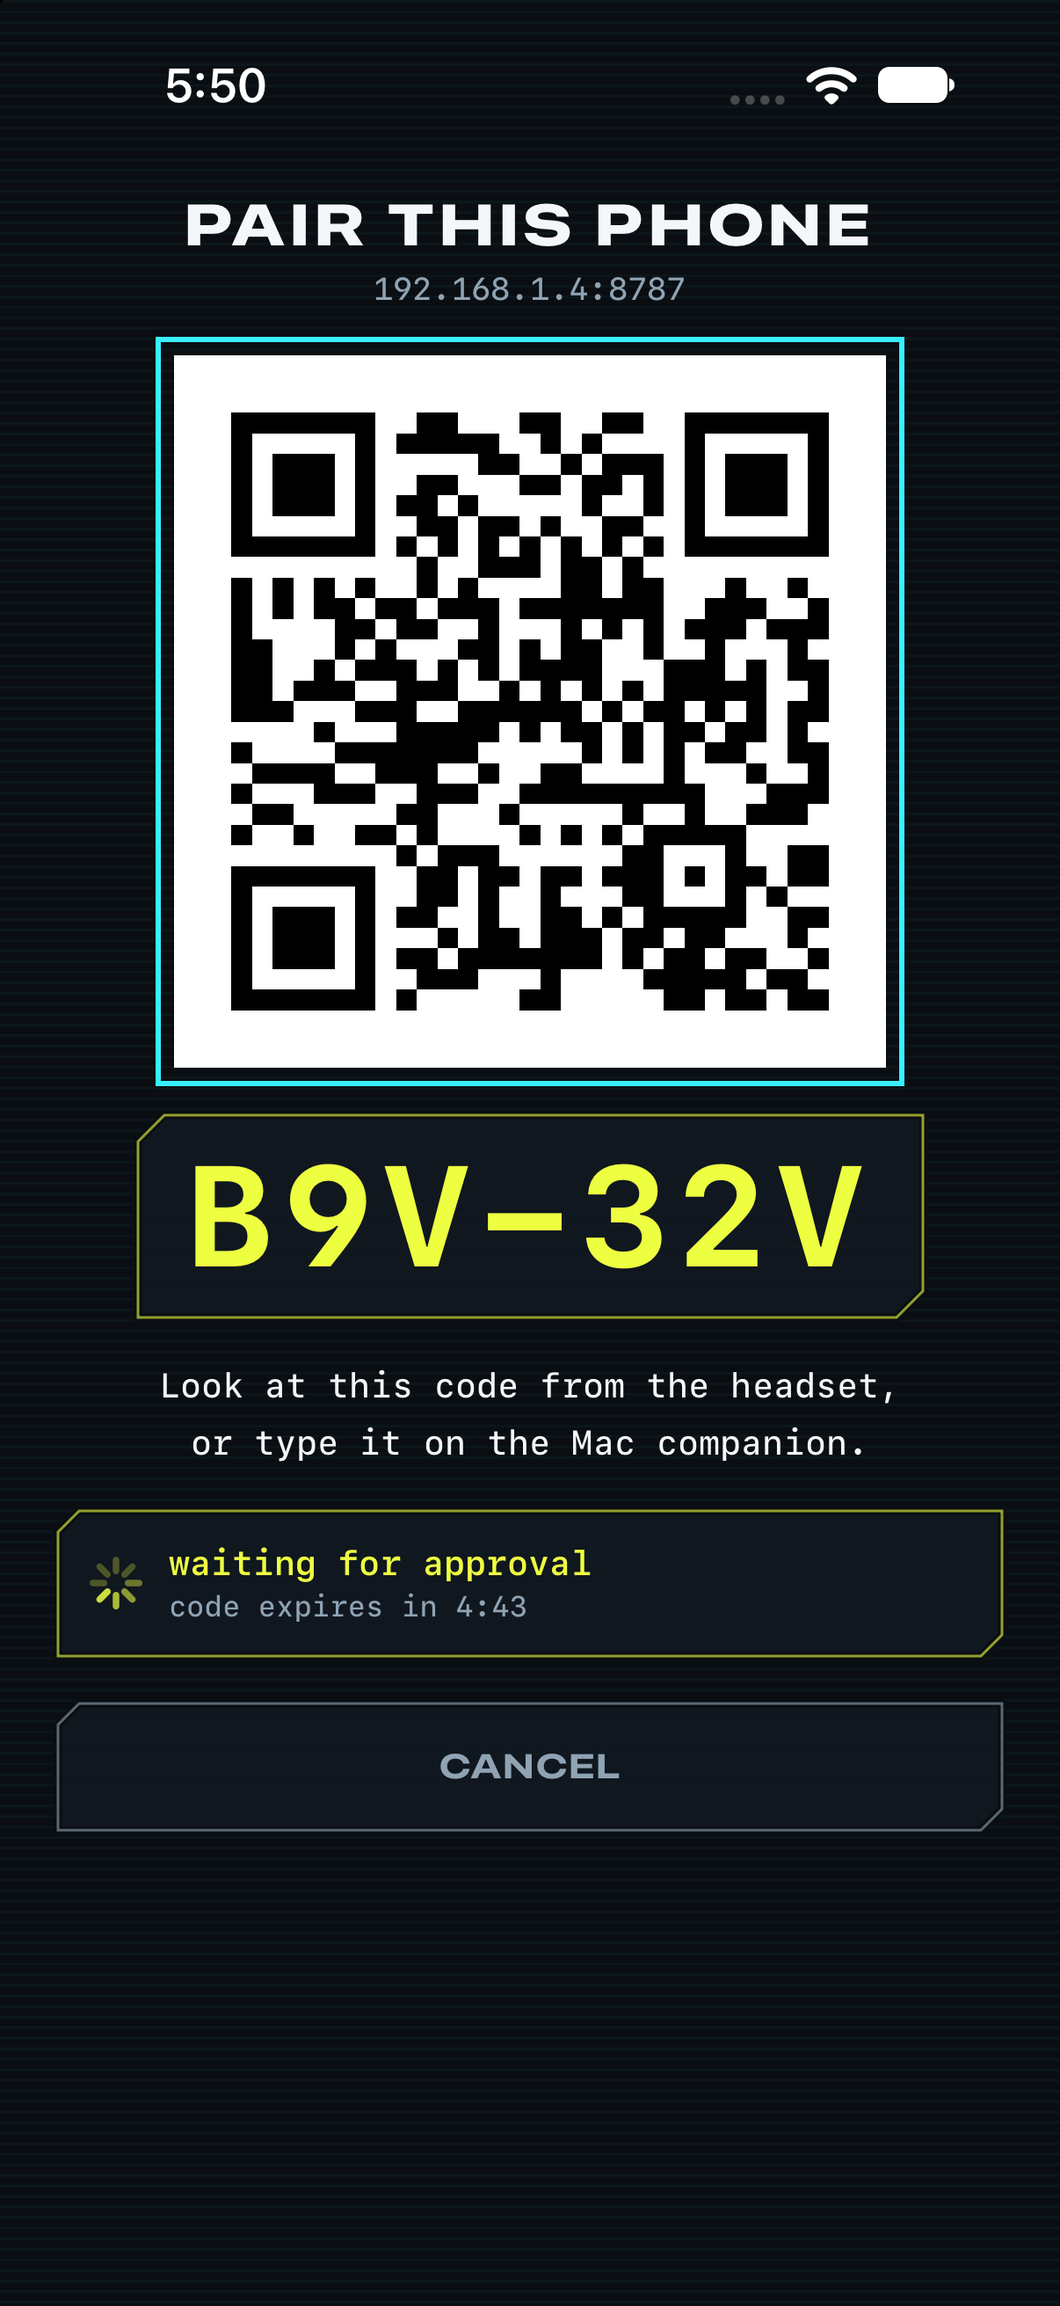
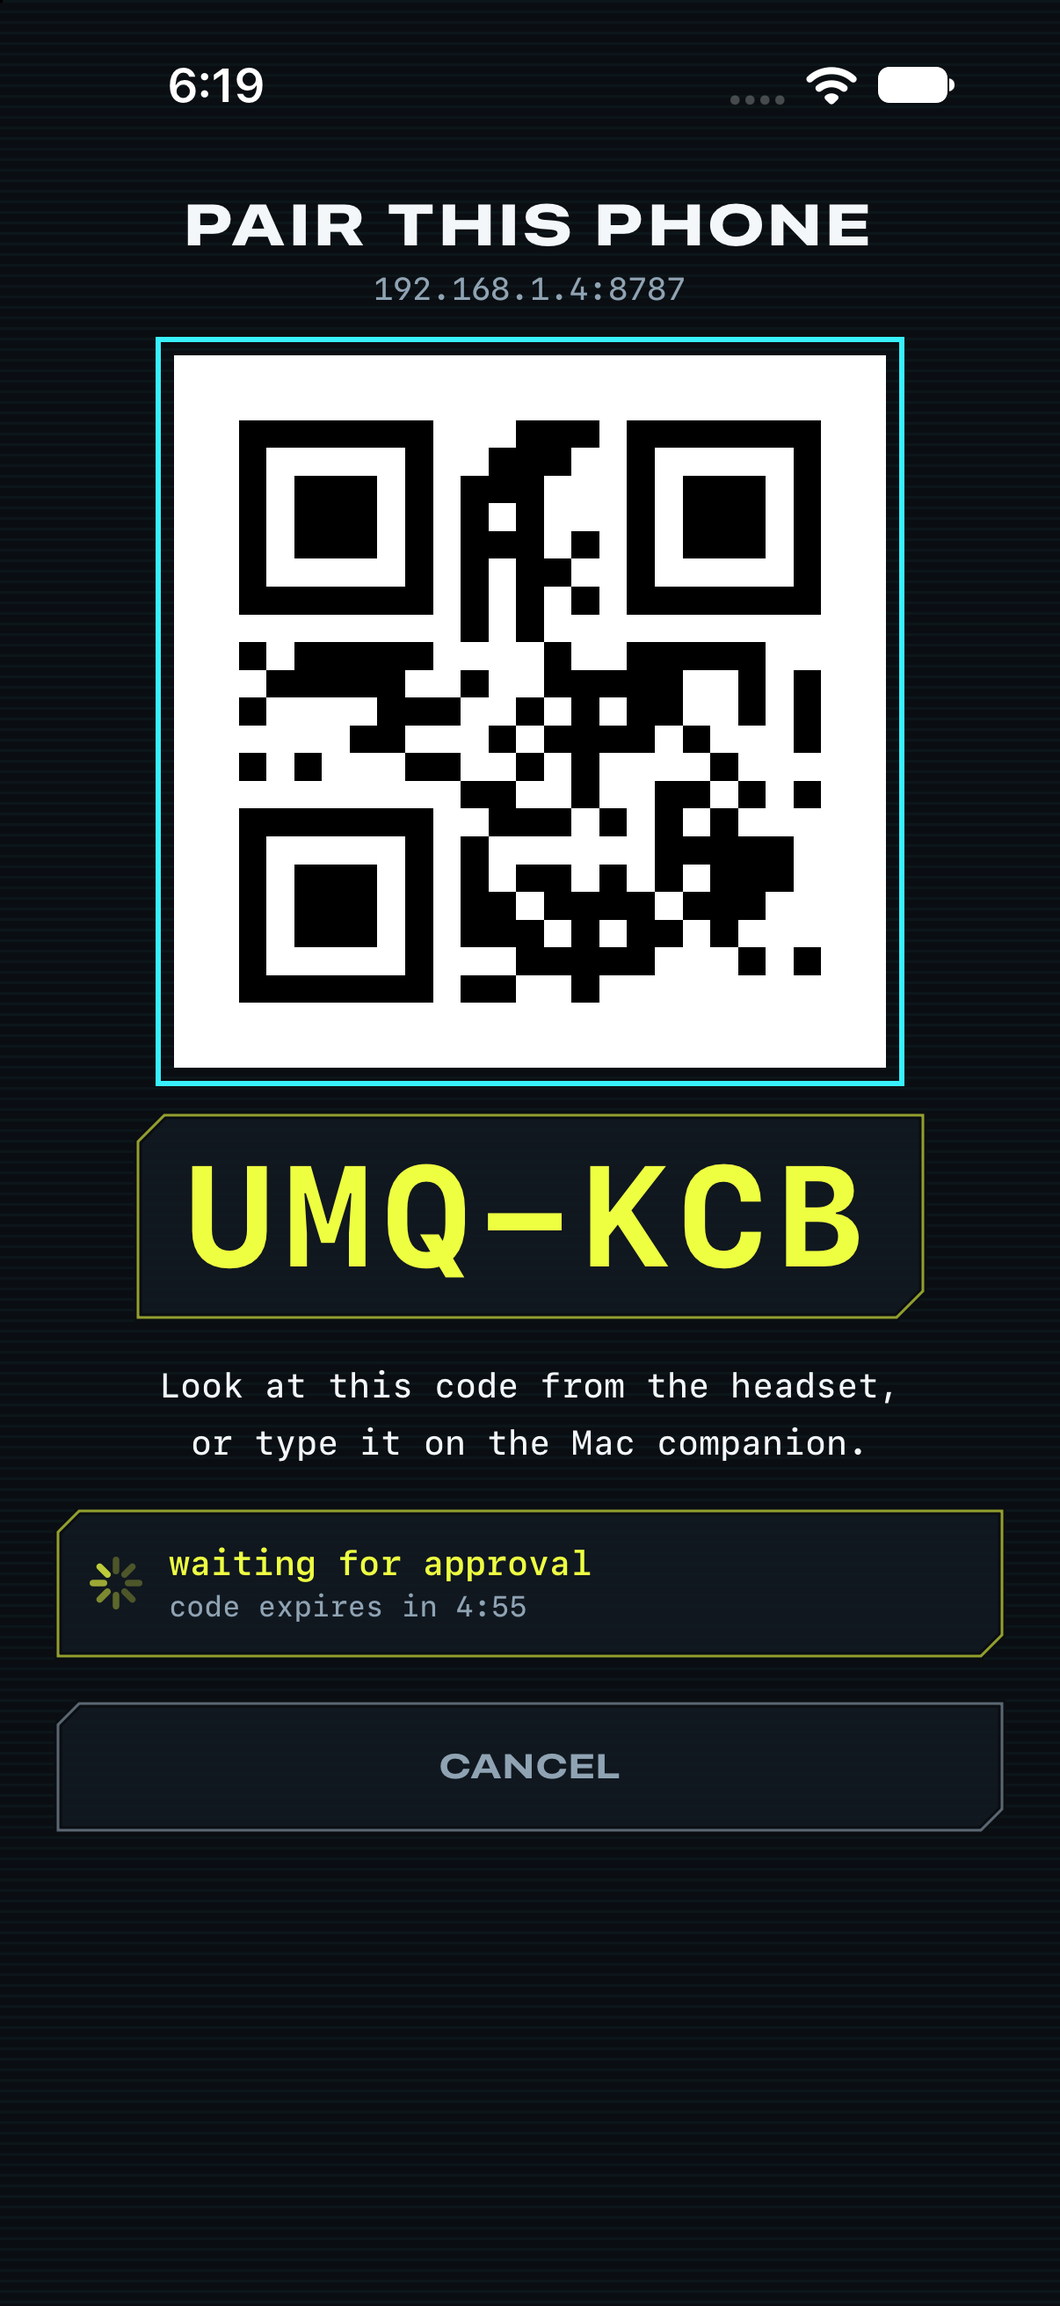
iPhone: CE1 pairing QR, softer screen washes, gesture UI test
- pairing QR shows the short "CE1:<code>" payload (version-1 QR the
  headset reads at arm's length); approving by QR accepts CE1 codes too
- screen washes fade in, saturated red is dimmed and never flashes,
  pulses breathe with eased edges (still <= 3 onsets per second)
- hub errors surface as a banner; failed-step evidence in red; model
  chips never wrap; log metadata falls back to two lines
- XCUITest (ControlEverythingUITests): real circular drag on the dimmer
  ring, vertical drag on a knob, tap on a hack row (offline demo surfaces)
- -CEOffline launch argument opens the deck without a server (DEBUG)
- Simulator screenshots of every screen in apps/iphone/screenshots

diff --git a/apps/iphone/ControlEverythingUITests/ControlGestureTests.swift b/apps/iphone/ControlEverythingUITests/ControlGestureTests.swift
@@ -1,0 +1,68 @@
+import XCTest
+
+/// Real touch gestures on the bundled demo surfaces (offline: no server, nothing is sent):
+/// the dimmer ring turns by circular drag, a knob turns by vertical drag, and a hack row takes a tap.
+@MainActor
+final class ControlGestureTests: XCTestCase {
+    override func setUp() {
+        continueAfterFailure = false
+    }
+
+    private func launchDemo() -> XCUIApplication {
+        let app = XCUIApplication()
+        app.launchArguments = ["-CEOffline", "1", "-CEDemo", "1", "-CETab", "hacks"]
+        app.launch()
+        return app
+    }
+
+    /// The control itself (an adjustable accessibility element), not its caption text with the same label.
+    private func element(_ app: XCUIApplication, label: String) -> XCUIElement {
+        app.descendants(matching: .any)
+            .matching(NSPredicate(format: "label == %@ AND elementType != %d", label, XCUIElement.ElementType.staticText.rawValue))
+            .firstMatch
+    }
+
+    func testRingKnobAndHackGestures() throws {
+        let app = launchDemo()
+
+        // dimmer ring (ceiling light): drag a quarter turn clockwise around the ring
+        let ring = element(app, label: "BRIGHTNESS")
+        XCTAssertTrue(ring.waitForExistence(timeout: 90), "dimmer ring not shown")
+        let ringBefore = ring.value as? String
+        ring.coordinate(withNormalizedOffset: CGVector(dx: 0.95, dy: 0.5))
+            .press(forDuration: 0.15, thenDragTo: ring.coordinate(withNormalizedOffset: CGVector(dx: 0.5, dy: 0.95)))
+        let ringAfter = ring.value as? String
+        XCTAssertNotEqual(ringBefore, ringAfter, "ring value did not change: \(ringBefore ?? "nil")")
+        add(screenshot(app, "ring-after-drag"))
+
+        // hack row: a tap on a demo surface is recorded locally and never sent
+        let hack = app.descendants(matching: .any).matching(identifier: "hack.h1").firstMatch
+        for _ in 0..<4 where !hack.isHittable { app.swipeUp() }
+        XCTAssertTrue(hack.waitForExistence(timeout: 10), "hack row FULL ON not shown")
+        hack.tap()
+        XCTAssertTrue(app.staticTexts["demo · not sent"].waitForExistence(timeout: 10), "hack tap not registered")
+        add(screenshot(app, "hack-tapped"))
+
+        // knob (OP-1 Field): vertical drag up turns it up
+        for _ in 0..<4 { app.swipeDown() }
+        let chip = app.buttons.matching(NSPredicate(format: "label CONTAINS[c] 'OP-1'")).firstMatch
+        XCTAssertTrue(chip.waitForExistence(timeout: 10), "OP-1 device chip not shown")
+        chip.tap()
+        let knob = element(app, label: "BLUE")
+        XCTAssertTrue(knob.waitForExistence(timeout: 10), "BLUE knob not shown")
+        let knobBefore = knob.value as? String
+        knob.coordinate(withNormalizedOffset: CGVector(dx: 0.5, dy: 0.6))
+            .press(forDuration: 0.15, thenDragTo: knob.coordinate(withNormalizedOffset: CGVector(dx: 0.5, dy: 0.05)))
+        let knobAfter = knob.value as? String
+        XCTAssertNotEqual(knobBefore, knobAfter, "knob value did not change: \(knobBefore ?? "nil")")
+        add(screenshot(app, "knob-after-drag"))
+        print("GESTURES ring \(ringBefore ?? "?") -> \(ringAfter ?? "?") · knob \(knobBefore ?? "?") -> \(knobAfter ?? "?")")
+    }
+
+    private func screenshot(_ app: XCUIApplication, _ name: String) -> XCTAttachment {
+        let a = XCTAttachment(screenshot: app.screenshot())
+        a.name = name
+        a.lifetime = .keepAlways
+        return a
+    }
+}

diff --git a/apps/iphone/ControlEverything/Exec/LocalExecutor.swift b/apps/iphone/ControlEverything/Exec/LocalExecutor.swift
@@ -22,6 +22,8 @@ final class LocalExecutor {
     private(set) var washVisible = false
     private(set) var washMode = "steady"
     private(set) var washRateHz: Double = 0
+    /// saturated red is shown dimmed (over void) so it never becomes a bright full-field red transition
+    private(set) var washOpacity: Double = 1
     // torch state: the level actually set, or the level we would have set (shown on screen) when there is no torch
     private(set) var torchLevel: Double = 0
     private(set) var torchIsVirtual = !CameraController.hasTorch
@@ -132,8 +134,11 @@ final class LocalExecutor {
         washColor = rgb.color
         washMode = mode
         washRateHz = mode == "pulse" ? rate : 0
+        washOpacity = rgb.isSaturatedRed ? 0.55 : 1
+        let fadeIn = rgb.isSaturatedRed ? 1.2 : 0.35
         switch mode {
         case "flash":
+            // one crisp flash, counted by the governor
             guard governor.allow() else { return Outcome(ok: false, detail: "flash skipped: 3 flashes per second is the limit", error: "rate_limited") }
             washVisible = true
             washTask = Task { [weak self] in
@@ -143,26 +148,28 @@ final class LocalExecutor {
             }
             return Outcome(ok: true, detail: "screen flash \(washHex!)\(note)")
         case "pulse":
+            // breathing, not strobing: eased edges, onsets still counted by the governor
             let period = 1.0 / rate
+            let edge = min(0.4, period * 0.4)
             let until = Date().addingTimeInterval((ms ?? 5000) / 1000)
             washTask = Task { [weak self] in
                 while !Task.isCancelled, Date() < until {
                     guard let self else { return }
-                    if self.governor.allow() { self.washVisible = true }
+                    if self.governor.allow() { withAnimation(.easeInOut(duration: edge)) { self.washVisible = true } }
                     try? await Task.sleep(for: .seconds(period / 2))
-                    self.washVisible = false
+                    withAnimation(.easeInOut(duration: edge)) { self.washVisible = false }
                     try? await Task.sleep(for: .seconds(period / 2))
                 }
-                self?.washVisible = false
+                withAnimation(.easeOut(duration: 0.3)) { self?.washVisible = false }
             }
             return Outcome(ok: true, detail: "screen pulse \(washHex!) at \(String(format: "%.1f", rate)) Hz\(note)")
         default:
-            washVisible = true
+            withAnimation(.easeIn(duration: fadeIn)) { washVisible = true }
             if let ms {
                 washTask = Task { [weak self] in
                     try? await Task.sleep(for: .milliseconds(Int(ms)))
                     guard !Task.isCancelled else { return }
-                    self?.washVisible = false
+                    withAnimation(.easeOut(duration: 0.35)) { self?.washVisible = false }
                 }
             }
             return Outcome(ok: true, detail: "screen \(washHex!) steady\(note)")
@@ -171,7 +178,7 @@ final class LocalExecutor {
 
     func clearWash() {
         washTask?.cancel()
-        washVisible = false
+        withAnimation(.easeOut(duration: 0.25)) { washVisible = false }
         washMode = "steady"
         washRateHz = 0
     }

diff --git a/apps/iphone/ControlEverything/UI/LogTab.swift b/apps/iphone/ControlEverything/UI/LogTab.swift
@@ -48,7 +48,7 @@ struct LogTab: View {
                         }
                     }
                     if !model.hubLog.isEmpty {
-                        SectionTitle(title: "HUB", subtitle: "warnings")
+                        SectionTitle(title: "HUB", subtitle: "warnings").id("hub")
                         ForEach(model.hubLog.suffix(20).reversed()) { l in
                             Text("\(l.level.uppercased()) · \(l.message)").font(Typo.mono(10))
                                 .foregroundStyle(l.level == "error" ? Neon.fail : Neon.dim)
@@ -102,19 +102,31 @@ struct StepRow: View {
                 }
                 if let d = step.detail, !d.isEmpty { Text(d).font(Typo.mono(11)).foregroundStyle(Neon.dim).lineLimit(3) }
                 if let e = step.evidence {
-                    Text(e).font(Typo.mono(11, weight: .semibold)).foregroundStyle(step.kind == "proof" ? Neon.ok : Neon.cyan)
+                    Text(e).font(Typo.mono(11, weight: .semibold))
+                        .foregroundStyle(step.status == "fail" ? Neon.fail : step.kind == "proof" ? Neon.ok : Neon.cyan)
                 }
-                HStack(spacing: 6) {
-                    if let m = step.model { ModelChipView(id: m, source: step.source) }
-                    if let eff = step.effort { Text("effort \(eff)").font(Typo.mono(10)).foregroundStyle(Neon.dim) }
-                    if let d = duration { Text(d).font(Typo.mono(10)).foregroundStyle(Neon.dim) }
-                    if let k = step.kind { Text(k).font(Typo.mono(10)).foregroundStyle(k == "proof" ? Neon.ok : Neon.cyan) }
+                ViewThatFits(in: .horizontal) {
+                    HStack(spacing: 6) {
+                        if let m = step.model { ModelChipView(id: m, source: step.source) }
+                        meta
+                    }
+                    VStack(alignment: .leading, spacing: 4) {
+                        if let m = step.model { ModelChipView(id: m, source: step.source) }
+                        HStack(spacing: 6) { meta }
+                    }
                 }
             }
             Spacer(minLength: 0)
         }
         .padding(10)
         .plate(edge: color, cut: 6, edgeOpacity: step.status == "running" ? 0.7 : 0.35)
+    }
+
+    @ViewBuilder
+    private var meta: some View {
+        if let eff = step.effort { Text("effort \(eff)").font(Typo.mono(10)).foregroundStyle(Neon.dim).fixedSize() }
+        if let d = duration { Text(d).font(Typo.mono(10)).foregroundStyle(Neon.dim).fixedSize() }
+        if let k = step.kind { Text(k).font(Typo.mono(10)).foregroundStyle(k == "proof" ? Neon.ok : Neon.cyan).fixedSize() }
     }
 
     private var phaseColor: Color {

diff --git a/apps/iphone/scripts/mock-brain.ts b/apps/iphone/scripts/mock-brain.ts
@@ -5,7 +5,7 @@
  * which the app accepts in DEBUG builds only. Prints everything the iPhone sends back.
  *
  *   npx tsx apps/iphone/scripts/mock-brain.ts [scenario ...] [--listen]
- *     scenarios: steps spec targets arm exec scan disarmed (default: steps spec targets)
+ *     scenarios: steps spec targets arm exec wash red washoff scan disarmed (default: steps spec targets)
  *     --listen   stay connected and answer hack uploads with verify.result evidence (else exit after ~2.5 s)
  *     --loud     really speak/beep in the exec scenario (default: say and beep go out as dryRun, so no sound)
  *     debug k=v  send an x.debug command (DEBUG app builds): tab=log · surface=spec_op1 · hack=full ·
@@ -202,6 +202,9 @@ ws.on('message', async (data) => {
       if (want('arm')) await sendArm();
       if (want('scan')) await sendScan();
       if (want('exec')) await sendExec();
+      if (want('wash')) sendX('exec.command', { execId: `x-wash-${Date.now().toString(36)}`, executorDeviceId: iphone, op: { kind: 'local', op: 'screen', arg: { color: '#38F0FF', mode: 'steady', ms: 8000 } } }, iphone);
+      if (want('red')) sendX('exec.command', { execId: `x-red-${Date.now().toString(36)}`, executorDeviceId: iphone, op: { kind: 'local', op: 'screen', arg: { color: '#FF2020', mode: 'flash' } } }, iphone);
+      if (want('washoff')) sendX('exec.command', { execId: `x-washoff-${Date.now().toString(36)}`, executorDeviceId: iphone, op: { kind: 'local', op: 'screen', arg: 'off' } }, iphone);
       if (debugArgs) sendX('debug', debugArgs, iphone);
       if (!listen) { setTimeout(() => process.exit(0), 2500); }
       console.log(listen ? '[mock] sent; listening (Ctrl+C to stop)' : '[mock] sent; exiting shortly');

diff --git a/apps/iphone/ControlEverything/UI/SurfaceView.swift b/apps/iphone/ControlEverything/UI/SurfaceView.swift
@@ -40,13 +40,15 @@ struct SurfaceView: View {
                 }
                 Spacer(minLength: 0)
             }
-            HStack(spacing: 6) {
-                if let m = surface.modelId { ModelChipView(id: m, source: surface.source) }
-                ForEach(surface.verifiedBy, id: \.self) { v in
-                    Text(v).font(Typo.mono(10)).foregroundStyle(Neon.ok)
-                        .padding(.horizontal, 6).padding(.vertical, 3).overlay(Rectangle().stroke(Neon.ok.opacity(0.45), lineWidth: 1))
+            ScrollView(.horizontal, showsIndicators: false) {
+                HStack(spacing: 6) {
+                    if let m = surface.modelId { ModelChipView(id: m, source: surface.source).fixedSize() }
+                    ForEach(surface.verifiedBy, id: \.self) { v in
+                        Text(v).font(Typo.mono(10)).foregroundStyle(Neon.ok).fixedSize()
+                            .padding(.horizontal, 6).padding(.vertical, 3).overlay(Rectangle().stroke(Neon.ok.opacity(0.45), lineWidth: 1))
+                    }
                 }
-                Spacer(minLength: 0)
+                .padding(1)
             }
         }
         .padding(14)

diff --git a/apps/iphone/ControlEverything/Net/ServerEndpoint.swift b/apps/iphone/ControlEverything/Net/ServerEndpoint.swift
@@ -57,9 +57,14 @@ nonisolated struct ServerEndpoint: Codable, Hashable, Sendable {
         return out
     }
 
-    /// A pairing QR of another device: https://host:8443/p/<pairingId>#<code>
-    static func pairingTarget(from input: String) -> (pairingId: String, code: String)? {
-        guard let url = URL(string: input.trimmingCharacters(in: .whitespacesAndNewlines)) else { return nil }
+    /// A pairing QR of another device: "CE1:<code>" (short form) or https://host:8443/p/<pairingId>#<code>
+    static func pairingTarget(from input: String) -> (pairingId: String?, code: String)? {
+        let s = input.trimmingCharacters(in: .whitespacesAndNewlines)
+        if s.uppercased().hasPrefix("CE1:") {
+            let code = s.dropFirst(4).uppercased().filter { $0.isLetter || $0.isNumber }
+            return code.count == 6 ? (nil, String(code)) : nil
+        }
+        guard let url = URL(string: s) else { return nil }
         let parts = url.path.split(separator: "/")
         guard parts.count == 2, parts[0] == "p", let code = url.fragment, !code.isEmpty else { return nil }
         return (String(parts[1]), code)

diff --git a/apps/iphone/ControlEverything/App/DebugHooks.swift b/apps/iphone/ControlEverything/App/DebugHooks.swift
@@ -9,6 +9,7 @@ import Foundation
 ///   -CEName <name>    this phone's name for pairing
 ///   -CETab <name>     hacks | scan | ping | log
 ///   -CEDemo 1         load the bundled demo surfaces
+///   -CEOffline 1      open the deck even when not paired (offline demo surfaces, UI tests)
 ///
 /// Deep links while running (`xcrun simctl openurl <udid> 'controleverything://debug?tab=log'`; iOS asks to confirm),
 /// or the same keys in an `x.debug` hub message from a paired test script (scripts/mock-brain.ts `debug k=v ...`):
@@ -24,6 +25,8 @@ extension AppModel {
             screen = .connect
         }
         if let name = d.string(forKey: "CEName") { deviceName = name }
+        // open the deck without a server (offline look at the demo surfaces; UI tests)
+        if d.bool(forKey: "CEOffline") { screen = .deck }
         if let tab = d.string(forKey: "CETab") { setTab(tab) }
         if d.bool(forKey: "CEDemo") { loadDemoSurfaces() }
         if credentials == nil, let server = d.string(forKey: "CEServer") {

diff --git a/apps/iphone/ControlEverything/UI/Theme.swift b/apps/iphone/ControlEverything/UI/Theme.swift
@@ -151,12 +151,13 @@ struct ModelChipView: View {
     var source: String?
     var body: some View {
         HStack(spacing: 4) {
-            Text(id).font(Typo.mono(10, weight: .semibold)).foregroundStyle(Neon.cyan)
+            Text(id).font(Typo.mono(10, weight: .semibold)).foregroundStyle(Neon.cyan).lineLimit(1)
             if let source, source != "live" {
-                Text(source.uppercased()).font(Typo.mono(9, weight: .bold)).foregroundStyle(Neon.void)
+                Text(source.uppercased()).font(Typo.mono(9, weight: .bold)).foregroundStyle(Neon.void).lineLimit(1)
                     .padding(.horizontal, 3).background(Neon.dim)
             }
         }
+        .fixedSize()
         .padding(.horizontal, 6).padding(.vertical, 3)
         .background(Neon.void)
         .overlay(Rectangle().stroke(Neon.cyan.opacity(0.5), lineWidth: 1))

diff --git a/apps/iphone/ControlEverything/App/AppModel+Inbound.swift b/apps/iphone/ControlEverything/App/AppModel+Inbound.swift
@@ -44,7 +44,11 @@ extension AppModel {
         case MsgType.driverStatus:
             if let d = try? f.payload(DriverStatusPayload.self) { driverStatus[d.driverId] = d }
         case MsgType.log:
-            if let l = try? f.payload(LogPayload.self) { log(l.level, l.message, code: l.code) }
+            if let l = try? f.payload(LogPayload.self) {
+                log(l.level, l.message, code: l.code)
+                // the hub refused something this phone sent: say so instead of failing silently
+                if l.level == "error", f.head.from == Wire.serverId || f.head.from == nil { show("Server: \(l.message)", tone: .fail) }
+            }
         case MsgType.voiceText:
             if let v = try? f.payload(VoiceTextPayload.self) { transcript = v }
         case MsgType.panic:

diff --git a/apps/iphone/ControlEverything/UI/Overlays.swift b/apps/iphone/ControlEverything/UI/Overlays.swift
@@ -9,7 +9,8 @@ struct ScreenWashOverlay: View {
         let ex = model.executor
         if ex.washVisible, let c = ex.washColor {
             ZStack(alignment: .bottom) {
-                c.ignoresSafeArea()
+                Neon.void.opacity(ex.washOpacity < 1 ? 1 : 0).ignoresSafeArea()
+                c.opacity(ex.washOpacity).ignoresSafeArea()
                 Text("SCREEN \(ex.washHex ?? "") · \(ex.washMode)\(ex.washRateHz > 0 ? String(format: " %.1f Hz", ex.washRateHz) : "") · tap to clear")
                     .font(Typo.mono(11)).foregroundStyle(Neon.bone)
                     .padding(.horizontal, 10).padding(.vertical, 6).background(Neon.void.opacity(0.92))

diff --git a/apps/iphone/ControlEverything/UI/ConnectView.swift b/apps/iphone/ControlEverything/UI/ConnectView.swift
@@ -92,7 +92,9 @@ struct PairingView: View {
                     }
                     .padding(.top, 10)
 
-                    QRCodeView(text: p.start.qr)
+                    // short "CE1:<code>" payload: a version-1 QR the headset reads at arm's length (the server
+                    // resolves it like the typed passcode); the full URL stays available to the Mac companion
+                    QRCodeView(text: "CE1:" + p.start.code)
                         .frame(maxWidth: 270)
                         .overlay(Rectangle().stroke(Neon.cyan, lineWidth: 2).padding(-6))
                         .opacity(p.status == "pending" ? 1 : 0.25)
